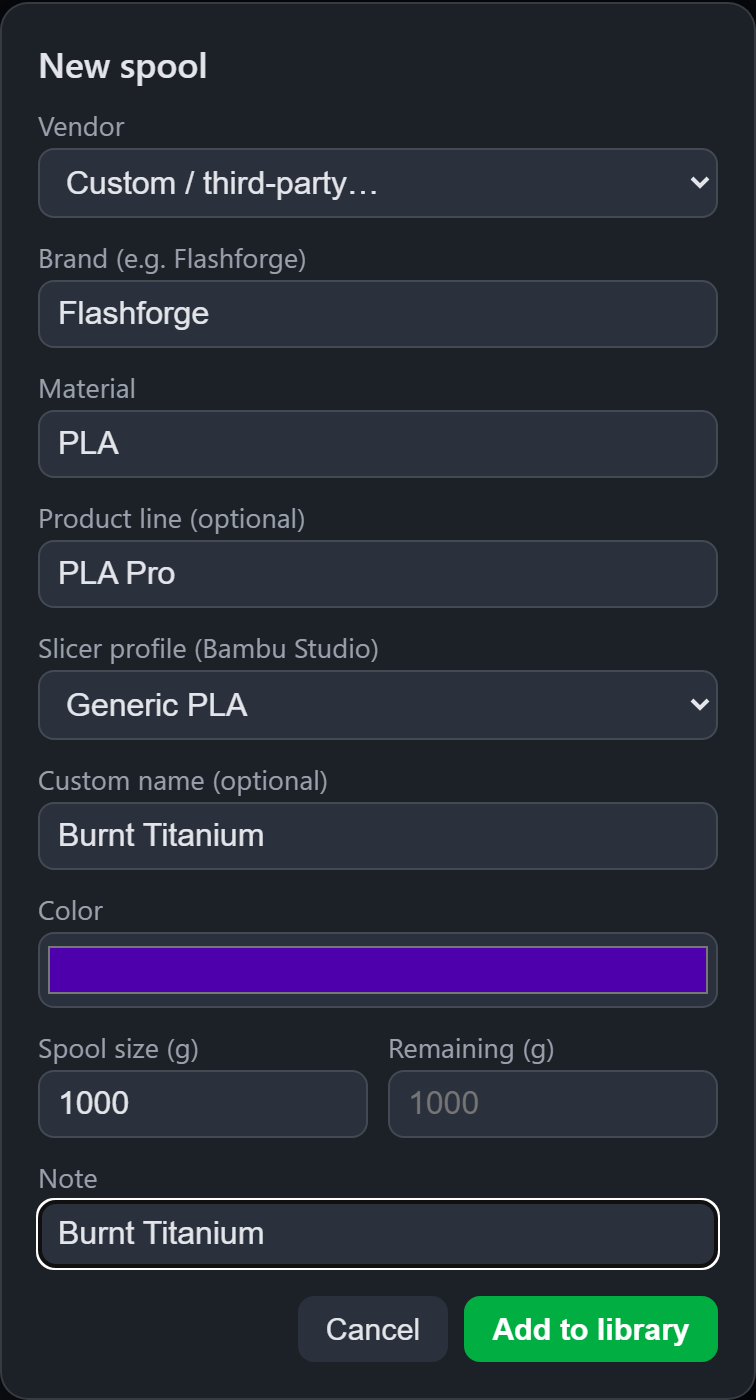
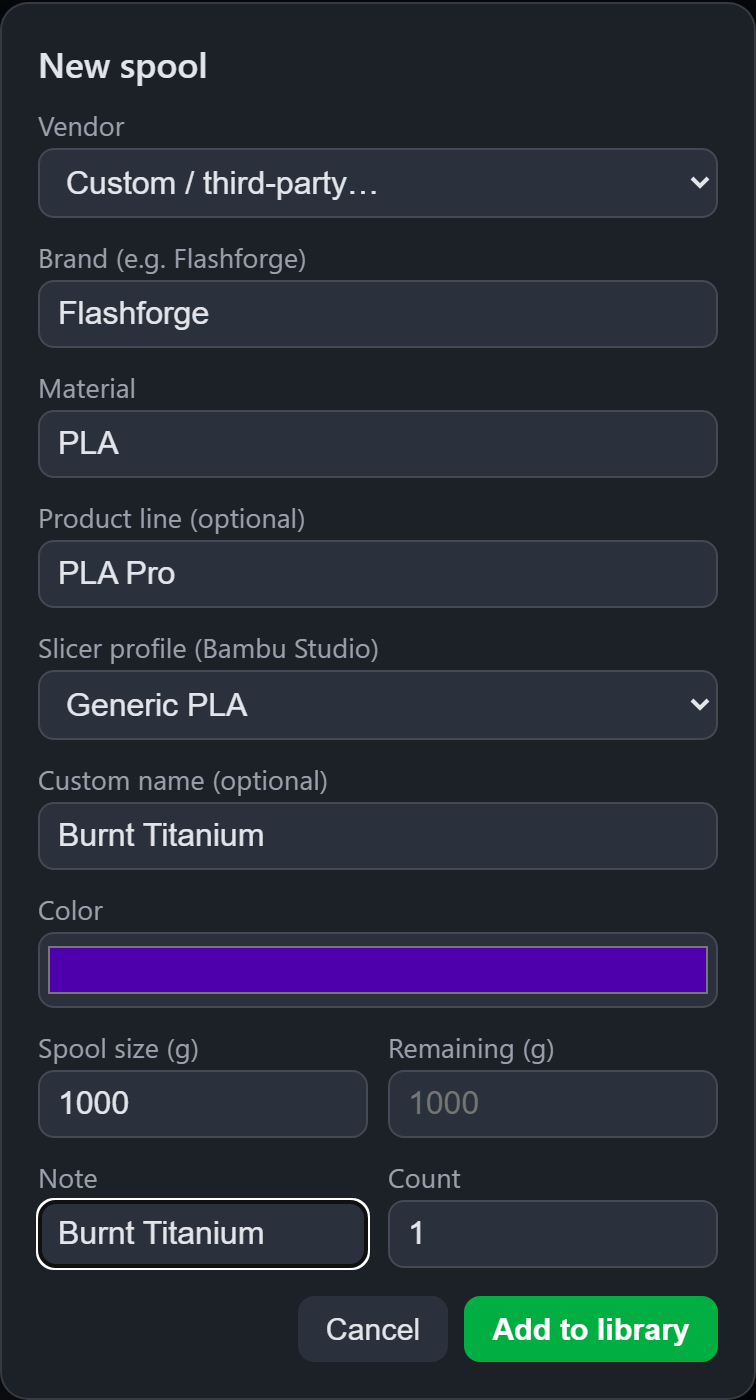
v1.4.0: create multiple spools at once (stock)
- create_spool action: new optional field count (1-50), loops the POST;
  partial failures report how many spools were created; note is written
  to every spool of the batch.
- Card: Count field in the add dialog; edit dialog (cog) gets an
  Add more spools of this type section that creates full manual copies
  (brand/product/profile/color/size, no name/note).
- README + screenshots updated.

Changed region(s): [[0.5172, 0.8293, 0.9735, 0.9214], [0.4563, 0.86, 0.5172, 0.9214]]

diff --git a/custom_components/bambu_filaments/www/bambu-filaments-card.js b/custom_components/bambu_filaments/www/bambu-filaments-card.js
@@ -30,6 +30,10 @@ const STR = {
     d_color: "Color",
     d_total: "Spool size (g)",
     d_remaining: "Remaining (g)",
+    d_count: "Count",
+    d_dup_title: "Add more spools of this type",
+    d_dup_hint: "Creates full manual spools (stock) with the same brand, product, color and size - name and note are not copied.",
+    d_dup_btn: (n) => `Create ${n} spool${n === 1 ? "" : "s"}`,
     d_save: "Add to library",
     d_cancel: "Cancel",
     d_saving: "Saving…",
@@ -87,6 +91,10 @@ const STR = {
     d_color: "Farbe",
     d_total: "Spulengröße (g)",
     d_remaining: "Restgewicht (g)",
+    d_count: "Anzahl",
+    d_dup_title: "Weitere Spulen dieses Typs anlegen",
+    d_dup_hint: "Legt volle manuelle Spulen (Vorrat) mit gleicher Marke, Sorte, Farbe und Größe an - Name und Notiz werden nicht übernommen.",
+    d_dup_btn: (n) => `${n} Spule${n === 1 ? "" : "n"} anlegen`,
     d_save: "Zur Bibliothek hinzufügen",
     d_cancel: "Abbrechen",
     d_saving: "Speichern…",
@@ -511,6 +519,15 @@ class BambuFilamentsCard extends HTMLElement {
         .dlg-save { background:#00ae42; color:#fff; font-weight:600; }
         .dlg-save:disabled { opacity:.6; }
         .dlg-del { background:var(--error-color, #e74c3c); color:#fff; margin-right:auto; }
+        .dup { border-top:1px solid var(--divider-color, rgba(255,255,255,.12));
+               padding-top:10px; display:flex; flex-direction:column; gap:6px; }
+        .dup .dhint { font-size:0.78em; color:var(--secondary-text-color, #9aa1ad); }
+        .dup .duprow { display:flex; gap:8px; align-items:center; }
+        .dup input[type=number] { width:80px; }
+        .dlg-dup { padding:8px 14px; border-radius:8px; border:none; cursor:pointer;
+          font-size:0.95em; background:var(--secondary-background-color, #2b313c);
+          color:var(--primary-text-color, #e3e5ea); font-weight:600; }
+        .dlg-dup:disabled { opacity:.6; }
       </style>
       <div class="overlay">
         <div class="dlg">
@@ -546,7 +563,21 @@ class BambuFilamentsCard extends HTMLElement {
             <label>${t.d_total}<input id="f-total" type="number" min="1" value="${isEdit ? (spool.total_g ?? 1000) : 1000}"/></label>
             <label>${t.d_remaining}<input id="f-remaining" type="number" min="0" placeholder="1000" value="${isEdit ? (spool.remaining_g ?? "") : ""}"/></label>
           </div>
-          <label>${t.d_note}<input id="f-note" type="text" value="${isEdit ? esc(spool.note || "") : ""}"/></label>
+          ${isEdit
+            ? `<label>${t.d_note}<input id="f-note" type="text" value="${esc(spool.note || "")}"/></label>`
+            : `<div class="cols2">
+            <label>${t.d_note}<input id="f-note" type="text" value=""/></label>
+            <label>${t.d_count}<input id="f-count" type="number" min="1" max="50" value="1"/></label>
+          </div>`}
+          ${isEdit ? `
+          <div class="dup">
+            <div class="dtitle" style="font-size:0.95em">${t.d_dup_title}</div>
+            <div class="dhint">${t.d_dup_hint}</div>
+            <div class="duprow">
+              <input id="f-dupcount" type="number" min="1" max="50" value="1"/>
+              <button class="dlg-dup">${t.d_dup_btn(1)}</button>
+            </div>
+          </div>` : ""}
           <div class="derr" hidden></div>
           <div class="dbtns">
             ${isEdit ? `<button class="dlg-del">${t.d_delete}</button>` : ""}
@@ -581,6 +612,35 @@ class BambuFilamentsCard extends HTMLElement {
       this._hass.callService("bambu_filaments", "delete_spool", { spool_id: spool.spool_id });
       close();
     });
+    if (isEdit) {
+      const dupBtn = root.querySelector(".dlg-dup");
+      const dupCount = root.querySelector("#f-dupcount");
+      const clampDup = () => Math.min(50, Math.max(1, Math.round(Number(dupCount.value)) || 1));
+      dupCount.addEventListener("input", () => { dupBtn.textContent = t.d_dup_btn(clampDup()); });
+      dupBtn.addEventListener("click", async () => {
+        const n = clampDup();
+        const err = root.querySelector(".derr");
+        dupBtn.disabled = true;
+        dupBtn.textContent = t.d_saving;
+        try {
+          await this._hass.callService("bambu_filaments", "create_spool", {
+            vendor: spool.vendor || "Bambu Lab",
+            material: spool.material || "",
+            name: spool.name || spool.material || "",
+            filament_id: spool.filament_id || "",
+            color: normHex(spool.color).slice(0, 7) || "#000000",
+            total_g: spool.total_g || 1000,
+            count: n,
+          });
+          close();
+        } catch (e) {
+          dupBtn.disabled = false;
+          dupBtn.textContent = t.d_dup_btn(n);
+          err.hidden = false;
+          err.textContent = t.d_error;
+        }
+      });
+    }
     if (catalog.length) {
       root.querySelector("#f-vendor").addEventListener("change", (ev) => {
         const isCustom = ev.target.value === "__custom__";
@@ -657,6 +717,8 @@ class BambuFilamentsCard extends HTMLElement {
       try {
         if (!isEdit) {
           if (val("f-note")) data.note = val("f-note");
+          const n = Math.min(50, Math.max(1, Math.round(Number(val("f-count"))) || 1));
+          if (n > 1) data.count = n;
           await this._hass.callService("bambu_filaments", "create_spool", data);
         } else {
           // Send only the fields that actually changed (minimal PUT, like

diff --git a/custom_components/bambu_filaments/services.py b/custom_components/bambu_filaments/services.py
@@ -66,6 +66,9 @@ CREATE_SPOOL_SCHEMA = vol.Schema(
         vol.Optional("filament_id"): cv.string,
         vol.Optional("display_name"): cv.string,
         vol.Optional("note"): cv.string,
+        # Studio/Handy let you add N spools of one type in a single step
+        # ("stock"); the cloud has no batch create, so this loops the POST.
+        vol.Optional("count", default=1): vol.All(vol.Coerce(int), vol.Range(min=1, max=50)),
     }
 )
 DELETE_SPOOL_SCHEMA = vol.Schema({vol.Required("spool_id"): cv.positive_int})
@@ -236,29 +239,50 @@ def async_register_services(hass: HomeAssistant) -> None:
         if display_name := call.data.get("display_name"):
             payload["displayName"] = display_name
         known_ids = set((coordinator.data or {}).keys())
-        await _cloud_write(
-            hass,
-            coordinator,
-            coordinator.client.create_spool,
-            payload,
-            action="Bambu cloud rejected the new spool",
-        )
+        count = call.data["count"]
+        created_n = 0
+        try:
+            for _ in range(count):
+                await _cloud_write(
+                    hass,
+                    coordinator,
+                    coordinator.client.create_spool,
+                    payload,
+                    action="Bambu cloud rejected the new spool",
+                )
+                created_n += 1
+        except HomeAssistantError as err:
+            if created_n == 0:
+                raise
+            # Partial batch: keep what was created, tell the caller how far
+            # it got (the refresh below shows the spools that made it).
+            await coordinator.async_request_refresh()
+            raise HomeAssistantError(
+                f"{err} (created {created_n} of {count} spools before the error)"
+            ) from err
         if note := call.data.get("note"):
             # The create endpoint 400s on a note field, so the note is written
-            # with a follow-up PUT onto the just-created spool: re-fetch and
-            # pick the newest matching id we did not know before the create.
+            # with a follow-up PUT onto the just-created spool(s): re-fetch
+            # and take the newest matching ids we did not know before.
             try:
                 spools = await hass.async_add_executor_job(coordinator.client.get_spools)
-                created = [
-                    s
-                    for s in spools
-                    if isinstance(s.get("id"), int)
-                    and s["id"] not in known_ids
-                    and s.get("filamentVendor") == payload["filamentVendor"]
-                    and s.get("filamentName") == payload["filamentName"]
-                ]
-                if created:
-                    target = max(created, key=lambda s: s["id"])
+                created = sorted(
+                    (
+                        s
+                        for s in spools
+                        if isinstance(s.get("id"), int)
+                        and s["id"] not in known_ids
+                        and s.get("filamentVendor") == payload["filamentVendor"]
+                        and s.get("filamentName") == payload["filamentName"]
+                    ),
+                    key=lambda s: s["id"],
+                    reverse=True,
+                )[:created_n]
+                if not created:
+                    _LOGGER.warning(
+                        "Spool was created but not found on re-fetch; note not set"
+                    )
+                for target in created:
                     await hass.async_add_executor_job(
                         coordinator.client.update_spool,
                         {
@@ -266,10 +290,6 @@ def async_register_services(hass: HomeAssistant) -> None:
                             "filamentName": target.get("filamentName") or "",
                             "note": note,
                         },
-                    )
-                else:
-                    _LOGGER.warning(
-                        "Spool was created but not found on re-fetch; note not set"
                     )
             except BambuCloudError as err:
                 _LOGGER.warning("Spool was created but setting its note failed: %s", err)

diff --git a/README.md b/README.md
@@ -35,7 +35,7 @@ This integration is about your **account-level spool inventory**. It complements
 
 ## Track unopened stock — without duplicates
 
-Bought five spools of a color but only loaded one? Register the sealed ones manually (card add dialog or the `create_spool` action) so your inventory reflects what's actually on the shelf.
+Bought five spools of a color but only loaded one? Register the sealed ones manually so your inventory reflects what's actually on the shelf — in one step, just like in Studio: the card's add dialog has a **Count** field, the edit dialog (cog icon) of any existing spool offers **"Add more spools of this type"**, and the `create_spool` action takes `count`.
 
 With the official apps that backfires later: the moment such a spool is first loaded into an AMS, the Bambu cloud creates a **new** entry from the spool's RFID tag — it never links up with your manual entry, which stays behind as a duplicate you have to hunt down and delete by hand.
 
@@ -96,7 +96,7 @@ Open the integration's *Configure* dialog:
 | `bambu_filaments.set_note` | `spool_id`, `note` | Set a spool's note text |
 | `bambu_filaments.set_filament_id` | `spool_id`, `filament_id` | Link a spool to a Bambu slicer profile (e.g. `GFA00` = Bambu PLA Basic, `GFL99` = Generic PLA) so Bambu Studio can assign it with matching print settings; `""` unlinks |
 | `bambu_filaments.update_spool` | `spool_id` + any of `vendor`, `material`, `name`, `color`, `total_g`, `remaining_g`, `note`, `filament_id`, `display_name` | Change fields of an existing spool — only the provided fields are written; empty strings clear custom name/note/profile |
-| `bambu_filaments.create_spool` | `vendor`, `material`, `name`, `color`, `total_g`, `remaining_g`, `filament_id`, `display_name`, `note` | Add a new spool to the cloud library (pass `filament_id: ""` for custom/third-party brands; the note is written right after creation) |
+| `bambu_filaments.create_spool` | `vendor`, `material`, `name`, `color`, `total_g`, `remaining_g`, `filament_id`, `display_name`, `note`, `count` | Add a new spool to the cloud library (pass `filament_id: ""` for custom/third-party brands; the note is written right after creation; `count` 1–50 creates that many identical spools) |
 | `bambu_filaments.delete_spool` | `spool_id` | Delete a spool from the cloud library |
 | `bambu_filaments.get_catalog` | – | Returns the vendor/product combinations the cloud accepts (response data) |
 
